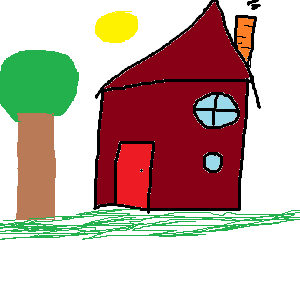
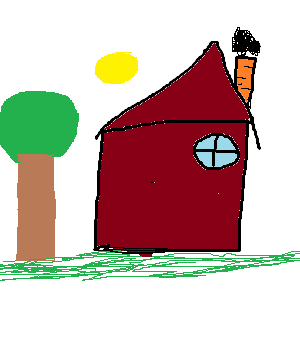
mapi lõppetamine

diff --git a/tood/maparea/toss.html b/tood/maparea/toss.html
@@ -14,22 +14,33 @@
 <!-- ring -circle coords = x, y, R -->
     <area shape="circle" coords="213,111,50" href="aken.html" alt="aken">
 <!--ristkülik rect coords =x, y, x1, y2-->
-    <area shape="rect" coords="101,93,247,208" href="seinad.html" alt="seinad">
+    <area shape="rect" coords="101,131,247,128" href="seinad.html" alt="seinad">
     <!--mitu nurka polügoon -poly coords=x,y, x1, y1, x2, y2 -kolmnurk-->
     <area shape="poly" coords="102,88,213,2,249,79" href="katus.html" alt="katus">
     <area shape="circle" coords="115,25,50" href="päike.html" alt="päike">
     <area shape="rect" coords="235,17,254,68" href="korsten.html" alt="korsten">
     <area shape="rect" coords="15,114,50,216" href="puu.html" alt="puu">
     <area shape="circle" coords="34,81,50" href="puu.html" alt="puu">
-    <area shape="rect" coords="117,145,153,212" href="uks.html" alt="uks">
     <area shape="circle" coords="242,43,50" href="toss.html" alt="toss">
+    <br><br>
+
+
+
+
+
 
 
 </map>
 <div id="selgitus">
-    <h1>Katus</h1>
-    Katus on ehitise ülemine osa, mis koosneb eri materjalidest ja konstruktsioonilistest elementidest ning toetub ehitise seintele ja tugedele. Katuse peamine ülesanne on kaitsta ehitist vihma, lume, päikse, temperatuuri ja tuule eest.[1] Katuse materjal ja kuju oleneb ehitise funktsioonist, materjalide kättesaadavusest, kohalikest ehitustavadest ja arhitektuurilisest disainist. Katuse ehitus on enamasti reguleeritud kohalike või riiklike eeskirjade ja normidega.[2]
-    <img src="https://katus24.ee/wp-content/uploads/2019/02/KATUSEINSPEKTSIOON-1.jpg" alt="katus" usemap="#majakaart">
+    <h1>Suits</h1>
+    Suits (ka suitsugaas) on hõljuv segu peamiselt õhust, veeaurust ja tahketest osakestest[1]. Suits tekib eeskätt kütuste põletamisel[2]. Suitsu koostis oleneb kütuse liigist ja põletamisviisist[1].
+
+    Suits kahjustab organisme, ehitisi, seadmeid jm[1]. Suits võib mõjutada ka kliimat[2].
+
+    Sõjas kasutatakse suitsugaasi maskeerimiseks ja ründemürkide levitamiseks[1].
+
+    Õhku puhastatakse suitsust mehaaniliste, elektriliste (elektrifilter) ja keemiliste meetoditega[1].
+    <img src="https://i.ytimg.com/vi/qAJD_tJx_PI/maxresdefault.jpg" alt="toss" usemap="#majakaart">
     <a href="../../tehtud.html">
         <button type="button">Ankeet | HTML vormid</button>
     </a>

diff --git a/tood/maparea/puu.html b/tood/maparea/puu.html
@@ -22,15 +22,22 @@
     <area shape="rect" coords="15,114,50,216" href="puu.html" alt="puu">
     <area shape="circle" coords="34,81,50" href="puu.html" alt="puu">
     <area shape="rect" coords="117,145,153,212" href="uks.html" alt="uks">
+    <area shape="circle" coords="242,43,50" href="toss.html" alt="toss">
 
 
 </map>
 <div id="selgitus">
+    <h1>Puu</h1>
     Puu on hästi välja kujunenud varrega (tüvega) puittaim, mis võib saavutada suured mõõtmed[1]. Puul võib olla ka mitu tüve.
 
     Puud jagatakse okaspuudeks ja lehtpuudeks. Okaspuud kuuluvad paljasseemnetaimede hulka ja lehtpuud katteseemnetaimede hulka. Maailmas on hinnanguliselt 73 000 puuliiki.[2]
 
-    Lehtede ja okaste elukestuse järgi rühmitatakse puud igihaljasteks ja heitlehisteks. Puid rühmitatakse ka kõrguse ja eluea järgi.</div>
+    Lehtede ja okaste elukestuse järgi rühmitatakse puud igihaljasteks ja heitlehisteks. Puid rühmitatakse ka kõrguse ja eluea järgi.
+    <img src="https://thumb.wikimedia.org/wikipedia/commons/thumb/5/58/Sequoia_sempervirens_01.jpg/250px-Sequoia_sempervirens_01.jpg?utm_source=et.wikipedia.org&utm_campaign=parser&utm_content=thumbnail" alt="puu">
+    <a href="../../tehtud.html">
+        <button type="button">Ankeet | HTML vormid</button>
+    </a>
+</div>
 
 
 

diff --git a/tood/maparea/aken.html b/tood/maparea/aken.html
@@ -22,14 +22,20 @@
     <area shape="rect" coords="15,114,50,216" href="puu.html" alt="puu">
     <area shape="circle" coords="34,81,50" href="puu.html" alt="puu">
     <area shape="rect" coords="117,145,153,212" href="uks.html" alt="uks">
+    <area shape="circle" coords="242,43,50" href="toss.html" alt="toss">
 
 </map>
 <div id="selgitus">
+    <h1>Aken</h1>
     Aken on hoone, sõiduki või muu objekti seinas, katuses või ukses paiknev ava, mis tavaliselt võimaldab lasta sisse valgust ja õhku.
 
     Tänapäeval on aknad tavaliselt klaasitud või kaetud mõne muu läbipaistva materjaliga.[1] Ka lükandosad ja raam viitavad aknale.[2] Paljusid hoonete või sõidukite klaasitud aknaid saab avada, et ruumi ventileerida või sulgeda, et vältida väliseid ilmaolusid. Enamasti on akendel riiv või muu mehhanism, mille abil saab aknaid sulgeda või avada. Sedamööda, kuidas hoonetes on levinud sundventilatsioon, mis võimaldab õhuvahetust akent avamata, on hakatud ehitama ka mitteavanevaid aknaid.
-</div>
+    <img src="https://www.majaehitaja.ee/pakkumine/wp-content/uploads/2010/05/aken.jpg" alt="aken" usemap="#majakaart">
+    <a href="../../tehtud.html">
+        <button type="button">Ankeet | HTML vormid</button>
+    </a>
 
+</div>
 
 
 </body>

diff --git a/tood/maparea/korsten.html b/tood/maparea/korsten.html
@@ -22,16 +22,21 @@
     <area shape="rect" coords="15,114,50,216" href="puu.html" alt="puu">
     <area shape="circle" coords="34,81,50" href="puu.html" alt="puu">
     <area shape="rect" coords="117,145,153,212" href="uks.html" alt="uks">
+    <area shape="circle" coords="242,43,50" href="toss.html" alt="toss">
 
 </map>
 <div id="selgitus">
+    <h1>Korsten</h1>
     Korsten on harilikult torujas ehitis või ehitise torujas osa, millega võidakse tekitada tõmmet ja mille kaudu juhitakse küttekolletest ja tööstusahjudest põlemisel tekkinud suits ja heitgaasid välja (õhku)[1][2].
 
     Korstnad võivad olla kas tellistest (elamud ja vanemad tööstusehitised), raudbetoonist (kõrgus kuni 500 m) või terasest (kõrgus kuni 300 m)[2].
 
-    Eestis hakati taluelamutele korstnaid ehitama alates 19. sajandi algusest[3]. Linnamajadel olid aga korstnad juba keskajal.</div>
-
-
+    Eestis hakati taluelamutele korstnaid ehitama alates 19. sajandi algusest[3]. Linnamajadel olid aga korstnad juba keskajal.
+<img src="https://lasover.ee/images/korsten/kivikorsten-telliskivi-korsten.jpg" alt="korsten">
+    <a href="../../tehtud.html">
+        <button type="button">Ankeet | HTML vormid</button>
+    </a>
+</div>
 
 </body>
 </html>

diff --git a/tood/maparea/päike.html b/tood/maparea/päike.html
@@ -22,12 +22,19 @@
     <area shape="rect" coords="15,114,50,216" href="puu.html" alt="puu">
     <area shape="circle" coords="34,81,50" href="puu.html" alt="puu">
     <area shape="rect" coords="117,145,153,212" href="uks.html" alt="uks">
+    <area shape="circle" coords="242,43,50" href="toss.html" alt="toss">
+
 
 
 </map>
 <div id="selgitus">
-    Päikese näiv visuaalne tähesuurus on −26,74 ja absoluutne tähesuurus 4,85[4]. Päikese aktiivsustsükkel kestab umbes 11 aastat. On leitud, et aktiivsustsükli jooksul, aktiivsuse maksimumist kuni miinimumini, varieerub Päikese kiirguse tugevus umbes 0,1%.[5]</div>
-
+    <h1>Päike</h1>
+    Päikese näiv visuaalne tähesuurus on −26,74 ja absoluutne tähesuurus 4,85[4]. Päikese aktiivsustsükkel kestab umbes 11 aastat. On leitud, et aktiivsustsükli jooksul, aktiivsuse maksimumist kuni miinimumini, varieerub Päikese kiirguse tugevus umbes 0,1%.[5]
+<img src="https://f8.pmo.ee/2ZtRRobSaFslqwczgteHF9_gtKI=/650x650/smart/nginx/o/2026/07/17/17789201t1h1cf4.jpg" alt="päike">
+    <a href="../../tehtud.html">
+        <button type="button">Ankeet | HTML vormid</button>
+    </a>
+</div>
 
 
 </body>

diff --git a/tood/maparea/map.html b/tood/maparea/map.html
@@ -14,14 +14,14 @@
 <!-- ring -circle coords = x, y, R -->
     <area shape="circle" coords="213,111,50" href="aken.html" alt="aken">
 <!--ristkülik rect coords =x, y, x1, y2-->
-    <area shape="rect" coords="101,93,247,208" href="seinad.html" alt="seinad">
+    <area shape="rect" coords="101,131,247,128" href="seinad.html" alt="seinad">
     <!--mitu nurka polügoon -poly coords=x,y, x1, y1, x2, y2 -kolmnurk-->
     <area shape="poly" coords="102,88,213,2,249,79" href="katus.html" alt="katus">
     <area shape="circle" coords="115,25,50" href="päike.html" alt="päike">
     <area shape="rect" coords="235,17,254,68" href="korsten.html" alt="korsten">
     <area shape="rect" coords="15,114,50,216" href="puu.html" alt="puu">
     <area shape="circle" coords="34,81,50" href="puu.html" alt="puu">
-    <area shape="rect" coords="117,145,153,212" href="uks.html" alt="uks">
+    <area shape="circle" coords="242,43,50" href="toss.html" alt="toss">
 
 
 </map>

diff --git a/tood/maparea/uks.html b/tood/maparea/uks.html
@@ -22,13 +22,19 @@
     <area shape="rect" coords="15,114,50,216" href="puu.html" alt="puu">
     <area shape="circle" coords="34,81,50" href="puu.html" alt="puu">
     <area shape="rect" coords="117,145,153,212" href="uks.html" alt="uks">
+    <area shape="circle" coords="242,43,50" href="toss.html" alt="toss">
 
 
 </map>
 <div id="selgitus">
+    <h1>Seinad</h1>
     Uks on tarind, mille abil saab hoonesse või ruumi sissepääsu ja sellest väljapääsu võimaldamiseks mõeldud ava sulgeda. Selleks asetatakse uks nii, et ta sisse- ja väljapääsuava tihedalt kataks.
 
-    Sissepääsu ja väljapääsu sulgemist ukse abil nimetatakse ukse sulgemiseks, selle avamist ukse avamiseks.</div>
+    Sissepääsu ja väljapääsu sulgemist ukse abil nimetatakse ukse sulgemiseks, selle avamist ukse avamiseks.
+    <a href="../../tehtud.html">
+        <button type="button">Ankeet | HTML vormid</button>
+    </a>
+</div>
 
 
 

diff --git a/tood/maparea/seinad.html b/tood/maparea/seinad.html
@@ -22,10 +22,17 @@
     <area shape="rect" coords="15,114,50,216" href="puu.html" alt="puu">
     <area shape="circle" coords="34,81,50" href="puu.html" alt="puu">
     <area shape="rect" coords="117,145,153,212" href="uks.html" alt="uks">
-    
+    <area shape="circle" coords="242,43,50" href="toss.html" alt="toss">
+
+
 </map>
 <div id="selgitus">
+    <h1>Seinad</h1>
     Sein on hoone harilikult püstne piirdetarind, mis võib olla ka kandetarindiks.
+    <img src="https://encrypted-tbn0.gstatic.com/images?q=tbn:ANd9GcQD6f89PJL54KchHpG2OGLutlAH8nx7Wk8SpsUowjEwzvhoN0Q-0KIfk1Ck&s=10" alt="seinad">
+    <a href="../../tehtud.html">
+        <button type="button">Ankeet | HTML vormid</button>
+    </a>
 </div>
 
 
